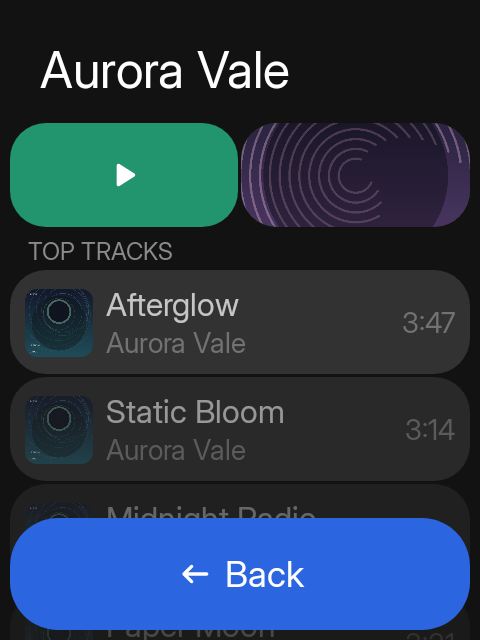
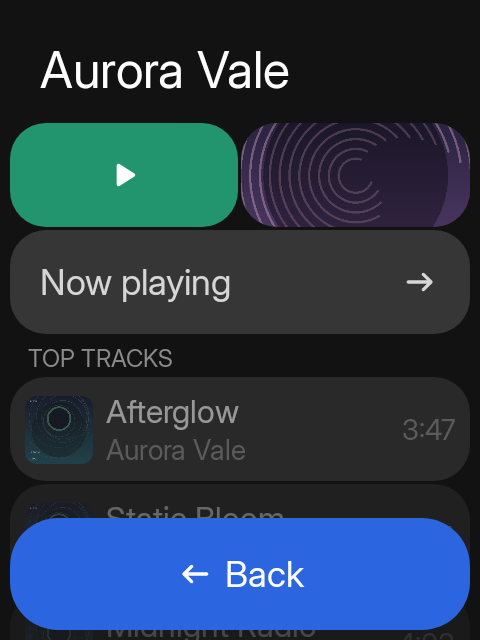
fix(sideplay): align now playing actions with playback

diff --git a/app/src/main/java/hrln/interactive/sidekit/apps/spotify/SpotifyComponents.kt b/app/src/main/java/hrln/interactive/sidekit/apps/spotify/SpotifyComponents.kt
@@ -44,6 +44,7 @@ import androidx.compose.ui.layout.ContentScale
 import androidx.compose.ui.res.painterResource
 import androidx.compose.ui.semantics.ProgressBarRangeInfo
 import androidx.compose.ui.semantics.Role
+import androidx.compose.ui.semantics.clearAndSetSemantics
 import androidx.compose.ui.semantics.contentDescription
 import androidx.compose.ui.semantics.progressBarRangeInfo
 import androidx.compose.ui.semantics.semantics
@@ -73,7 +74,9 @@ fun SpotifyCover(
     shape: androidx.compose.ui.graphics.Shape = SidekitTheme.shapes.control,
     bordered: Boolean = false,
     contentDescription: String? = null,
-    artUrl: String? = null
+    artUrl: String? = null,
+    onClick: (() -> Unit)? = null,
+    onClickLabel: String? = null
 ) {
     val colors = SidekitTheme.colors
     Box(
@@ -81,6 +84,7 @@ fun SpotifyCover(
             .clip(shape)
             .background(colors.surfaceA2)
             .then(if (bordered) Modifier.border(1.dp, colors.light, shape) else Modifier)
+            .then(if (onClick != null) Modifier.clickable(onClickLabel = onClickLabel, onClick = onClick) else Modifier)
     ) {
         when {
             artUrl != null -> RemoteArtworkImage(
@@ -332,7 +336,7 @@ fun SpotifySeek(positionMs: Long, durationMs: Long, onSeek: (Long) -> Unit, modi
     val step = if (seekable) 5_000f / durationMs else 0f
     Row(modifier, verticalAlignment = Alignment.CenterVertically, horizontalArrangement = Arrangement.spacedBy(8.dp)) {
         Box(contentAlignment = Alignment.CenterEnd) {
-            SidekitText(widest, Modifier.alpha(0f), style = timeStyle)
+            SidekitText(widest, Modifier.alpha(0f).clearAndSetSemantics {}, style = timeStyle)
             SidekitText(formatDuration(positionMs), style = timeStyle)
         }
         Box(

diff --git a/app/src/main/java/hrln/interactive/sidekit/apps/spotify/SpotifyNowPlayingScreens.kt b/app/src/main/java/hrln/interactive/sidekit/apps/spotify/SpotifyNowPlayingScreens.kt
@@ -57,15 +57,17 @@ fun SpotifyNowPlayingScreen(
     onSave: () -> Unit,
     onQueue: () -> Unit,
     onAlbum: () -> Unit,
+    onShow: () -> Unit,
     onArtist: () -> Unit,
     onUndo: () -> Unit,
     onDismissNotice: () -> Unit
 ) {
     val current = state.current
-    val save = current?.let {
+    // Episodes have no saved-track endpoint, so Save is a track-only action.
+    val save = (current as? SpotifyTrack)?.let {
         SideAction.square(
             "save",
-            if (state.savedCurrent) SidekitIcon.Bookmark else SidekitIcon.BookmarkBorder,
+            if (state.savedCurrent) SidekitIcon.Check else SidekitIcon.Bookmark,
             if (state.savedCurrent) "Saved" else "Save",
             onSave,
             tone = if (state.savedCurrent) ActionTone.Secondary else ActionTone.Muted,
@@ -106,7 +108,17 @@ fun SpotifyNowPlayingScreen(
                         shape = SidekitTheme.shapes.item,
                         bordered = true,
                         contentDescription = "${current.title} artwork",
-                        artUrl = current.artUrl
+                        artUrl = current.artUrl,
+                        onClick = when (current) {
+                            is SpotifyTrack -> onAlbum
+                            is SpotifyEpisode -> onShow
+                            else -> null
+                        },
+                        onClickLabel = when (current) {
+                            is SpotifyTrack -> "Open album"
+                            is SpotifyEpisode -> "Open show"
+                            else -> null
+                        }
                     )
                 }
                 Column(horizontalAlignment = Alignment.CenterHorizontally) {

diff --git a/app/src/main/java/hrln/interactive/sidekit/apps/spotify/SpotifyGraph.kt b/app/src/main/java/hrln/interactive/sidekit/apps/spotify/SpotifyGraph.kt
@@ -227,6 +227,11 @@ fun NavGraphBuilder.sideplayGraph(nav: NavHostController) {
                         nav.navigate(collectionRoute(SpotifyCollectionType.Album, track.albumId))
                     }
                 },
+                onShow = {
+                    (state.current as? SpotifyEpisode)?.let { episode ->
+                        nav.navigate(collectionRoute(SpotifyCollectionType.Show, episode.showId))
+                    }
+                },
                 onArtist = {
                     state.current?.artistId?.let { nav.navigate(artistRoute(it)) }
                 },

diff --git a/app/src/test/java/hrln/interactive/sidekit/apps/spotify/SideplayScreenshotTest.kt b/app/src/test/java/hrln/interactive/sidekit/apps/spotify/SideplayScreenshotTest.kt
@@ -143,6 +143,7 @@ class SideplayScreenshotTest {
             onSave = {},
             onQueue = {},
             onAlbum = {},
+            onShow = {},
             onArtist = {},
             onUndo = {},
             onDismissNotice = {}
